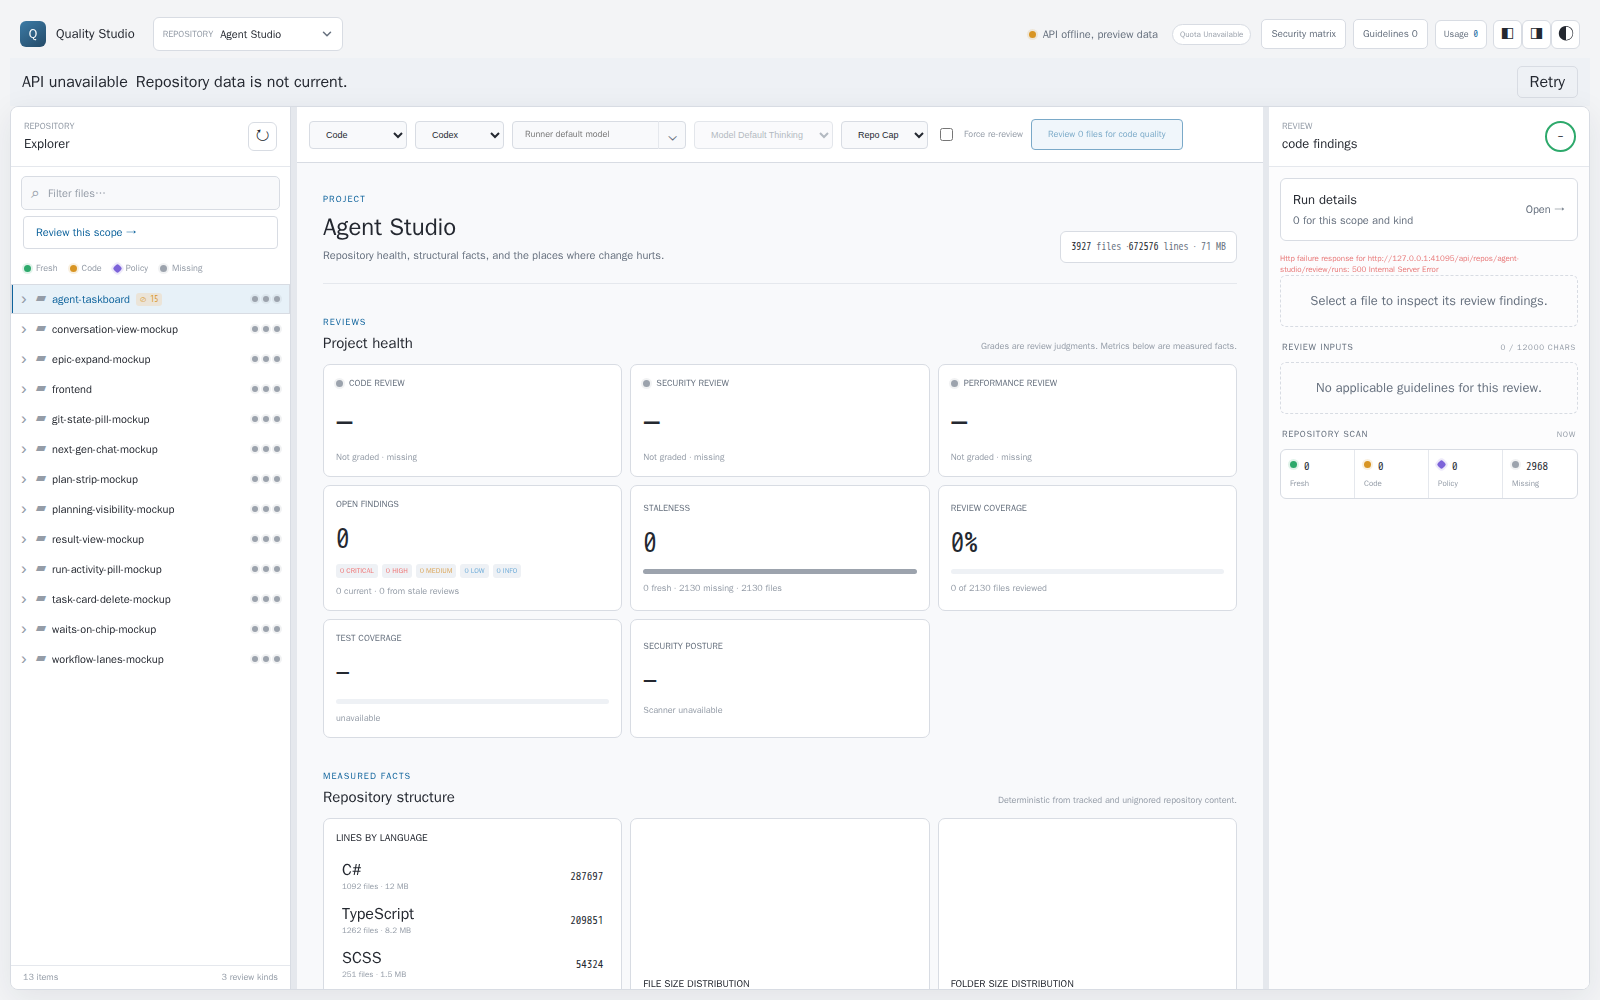
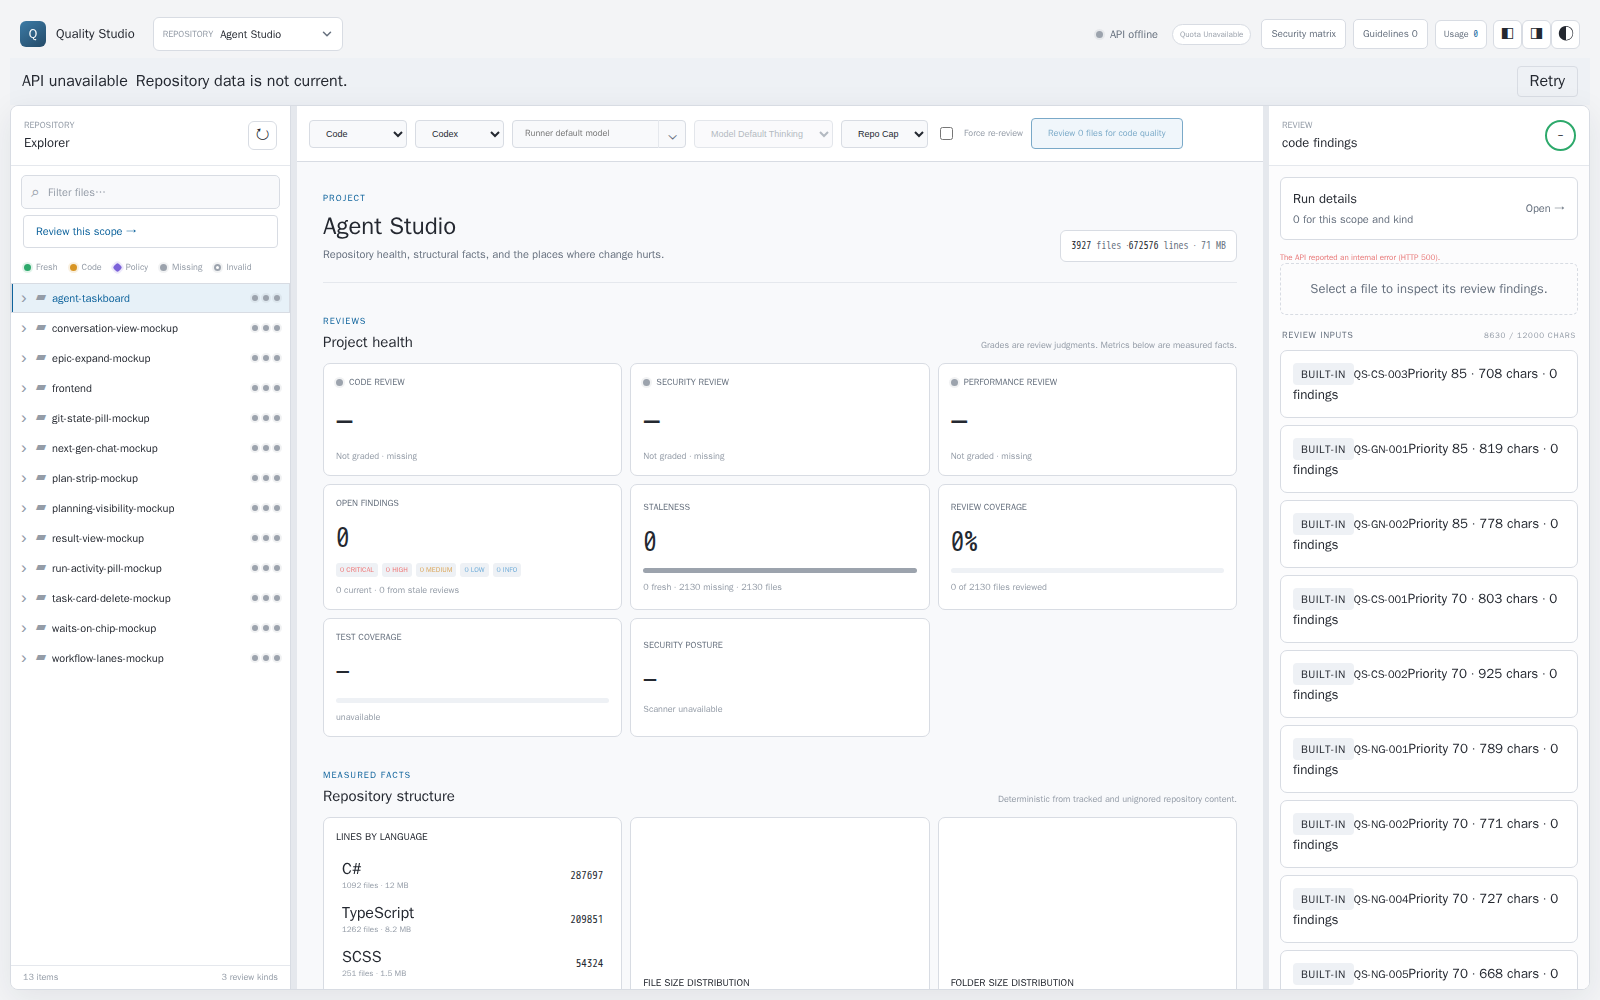
docs(perf): record the QS-82 rebase onto main and its re-measured before/after
The delivery was rebased onto origin/main 6b4e7b3, which had landed the frontend
service split, a bounded dashboard LRU, a Git-fingerprint TTL, and derived
function units below file nodes. The dossier now names every conflict and how it
was resolved, and carries numbers re-measured from the rebased build rather than
the August ones the tree had moved past:

- v1 root 2,868,549 bytes / 79.13 ms median against v2 2,255 bytes / 3.20 ms
- initial production bundle 334.86 kB on main against 305.97 kB here
- the live browser series against the same 3,927-file target
- refreshed switcher and API-down captures from the rebased build

diff --git a/docs/operations/performance/index.html b/docs/operations/performance/index.html
@@ -25,7 +25,7 @@
   <div class="kicker">Quality Studio · performance · living dossier</div>
   <h1>Large-repository transport after QS-82</h1>
   <p class="lede">QS-59 found that a warm project switch still transferred a recursively repeated 29.1 MB tree. QS-82 delivers the next slice cleanly on top of QS-54 and QS-78: one-level tree transport, lazy expansion, snapshot-pinned child pages, complete timing, and production bundle headroom.</p>
-  <div class="meta"><div><b>Status</b><br><span class="pill done">documented</span></div><div><b>Implemented</b><br>12 August 2026</div><div><b>Re-measured</b><br>24 August 2026</div><div><b>Reproduced</b><br>24 August 2026 on <code>b36bfe3</code></div><div><b>Card</b><br><code>QS-82</code></div><div><b>Integration base</b><br><code>origin/main e31089c</code></div><div><b>Target</b><br>3,927 tracked files</div></div>
+  <div class="meta"><div><b>Status</b><br><span class="pill done">documented</span></div><div><b>Implemented</b><br>12 August 2026</div><div><b>Re-measured</b><br>7 September 2026</div><div><b>Reproduced</b><br>7 September 2026 on <code>origin/main 6b4e7b3</code></div><div><b>Card</b><br><code>QS-82</code></div><div><b>Integration base</b><br><code>origin/main 6b4e7b3</code></div><div><b>Target</b><br>3,927 tracked files</div></div>
 </header>
 
 <section class="callout"><b>Outcome.</b> A valid persisted snapshot plus the v2 root made five measured restarts usable in 1,516.87 ms median instead of the QS-59 10,004.99 ms median (84.84% lower; the &lt;2 s target now passes). The root response is 15,391 bytes instead of 29,119,333 bytes (99.95% smaller). Ten same-build project-plus-root samples measured 31.23 ms median / 42.45 ms p95 with v2 against 331.36 / 902.38 ms with v1. Five live Angular switches measured 19.8 / 87.0 ms and first lazy expansion measured 33.1 ms.</section>
@@ -52,7 +52,7 @@
   <tr><td>Snapshot integration</td><td><span class="pill done">built · QS-78/QS-82</span></td><td>QS-78 hierarchy/dashboard restoration is retained. The existing QS-54 prewarmer now fills the bounded one-slot aggregate projection; child pages pin the root snapshot and avoid another Git-state scan.</td></tr>
   <tr><td>Explorer migration</td><td><span class="pill done">built · QS-82</span></td><td>Children load on expansion, pages remain in the per-repository browser snapshot, server search preserves unloaded deep links, and keyboard/virtualized-row behavior remains.</td></tr>
   <tr><td>Honest timing</td><td><span class="pill done">built · QS-82</span></td><td><code>Server-Timing</code> includes snapshot, projection, and JSON serialization. <code>qs.tree.transport</code> records bytes and response completion.</td></tr>
-  <tr><td>Bundle headroom</td><td><span class="pill done">built · QS-82</span></td><td>The editor is deferred through the established Angular component boundary. The final initial production bundle is 438.02 kB versus the 480 kB error ceiling.</td></tr>
+  <tr><td>Bundle headroom</td><td><span class="pill done">built · QS-82</span></td><td>The editor is deferred through the established Angular component boundary. Re-measured on 2026-09-07 after the rebase onto <code>6b4e7b3</code>: 334.86 kB on main versus 305.97 kB here, both against the 480 kB error ceiling.</td></tr>
   <tr><td>Bounded retention</td><td><span class="pill done">built · QS-78</span></td><td>The dashboard cache is bounded per repository/root and invalidated with the shared repository cache state; QS-82 adds only a one-slot derived tree projection.</td></tr>
   <tr><td>Review completion</td><td><span class="pill pending">not built</span></td><td>Server-sent review transitions and phase telemetry remain the next governed review-latency slice. Model and thinking-level routing are unchanged.</td></tr>
 </tbody></table>
@@ -79,8 +79,8 @@
 <div class="grid">
   <figure><img src="results/tree-transport-before.png" alt="Agent Studio before expanding the lazy tree root"><figcaption><b>Before interaction.</b> The app is usable with only the 15,391-byte root page loaded; the explorer footer reads 13 items and the selected solution is still collapsed.</figcaption></figure>
   <figure><img src="results/tree-transport-after.png" alt="Agent Studio after QS-82 with a lazily expanded project"><figcaption><b>After interaction.</b> The same live app shows the selected solution's ten children — 23 items — after a 33.1 ms snapshot-pinned lazy expansion.</figcaption></figure>
-  <figure><img src="results/agent-studio-switcher-full-path.png" alt="Repository switcher showing wrapped full root paths"><figcaption><b>Switcher.</b> Root paths wrap instead of truncating, and the three actions share one token-spaced row.</figcaption></figure>
-  <figure><img src="results/agent-studio-api-down-notice.png" alt="API unavailable notice with a retry action"><figcaption><b>API down.</b> Losing the API raises an explicit notice instead of silently presenting stale data as live; Retry recovered the session in the same run.</figcaption></figure>
+  <figure><img src="results/agent-studio-switcher-full-path.png" alt="Repository switcher showing wrapped full root paths"><figcaption><b>Switcher.</b> Root paths wrap instead of truncating. Re-captured 7 September 2026 after the rebase: the three repository actions share one token-spaced row and main's API-access action spans the row below them.</figcaption></figure>
+  <figure><img src="results/agent-studio-api-down-notice.png" alt="API unavailable notice with a retry action"><figcaption><b>API down.</b> Losing the API raises an explicit notice instead of silently presenting stale data as live; Retry recovered the session in the same run. Re-captured 7 September 2026 from the rebased build.</figcaption></figure>
 </div>
 
 <h2>6. Verification and evidence</h2>
@@ -138,4 +138,41 @@
 <li>Tree-v2 live contract harness: 13/13 passed; this checkout measured 1,653,398-byte v1 versus 5,331-byte v2 roots, a 99.68% reduction.</li>
 </ul>
 <p class="muted">The 24 August before/after series remains the controlled QS-59 comparison and is not replaced by this final integration gate. The 1 September contract run is a functional current-tree receipt; its smaller repository is not used to revise the large-repository performance claims.</p>
+
+<h2>9. Rebase onto current main and re-gate (7 September 2026)</h2>
+<p>The delivery tip <code>2390474</code> was rebased onto <code>origin/main 6b4e7b3</code>. Main had advanced substantially in the interim — the frontend API service was split along its domains, the project-dashboard cache became a bounded LRU, the hierarchy cache gained a one-second Git-fingerprint TTL, and the .NET hierarchy now derives function units below file nodes. Eleven files conflicted. Every conflict was resolved by keeping main's newer structure and re-expressing the QS-82 change on top of it; no QS-82 feature was dropped and no feature was reworked.</p>
+<table><thead><tr><th>Conflict</th><th>Resolution</th></tr></thead><tbody>
+  <tr><td><code>quality-api.ts</code> (service split)</td><td>The lazy transport was ported onto main's facade. The root now loads over <code>/api/tree/v2</code> with main's conditional <code>If-None-Match</code> revalidation on the first page, falling back to the recursive route on a 404. Path-scoped loads keep the recursive route.</td></tr>
+  <tr><td><code>app.ts</code> (<code>nodeAt</code>/<code>allNodes</code>)</td><td>Main's cached path lookup is kept; <code>nodesByPath</code> now also covers server search hits, which is what QS-82 needed the extra flattening for.</td></tr>
+  <tr><td><code>explorer.ts</code> (debounced filter)</td><td>Main's debounce is kept and now drives the bounded server-side search, because a lazy tree cannot answer a filter from the loaded levels alone.</td></tr>
+  <tr><td><code>app.html</code> / <code>app.css</code></td><td>QS-82's three-column repository menu is kept together with main's API-access action, which spans the row. <code>.secondary-button</code>, which the QS-82 markup referenced but nothing defined, is now a token-based shared class in <code>styles.css</code>.</td></tr>
+  <tr><td><code>ProjectDashboard.cs</code></td><td>Main's bounded LRU replaces QS-82's one-slot-per-repository cache; QS-82's <code>Seed</code> is re-expressed against it so the prewarmer still avoids a rebuild.</td></tr>
+  <tr><td><code>RepositoryHierarchyCache.cs</code></td><td>QS-82's public <code>MeasureState</code> now reads main's TTL-cached Git fingerprint instead of running Git again, and the fingerprint carries HEAD for the diagnostic field.</td></tr>
+  <tr><td><code>Program.cs</code></td><td>The sensors endpoint keeps QS-82's per-repository availability cache; the surrounding QS-86 registrations were untouched.</td></tr>
+</tbody></table>
+<p>Three test assertions were corrected because main changed the ground truth underneath them, not because behaviour regressed: the tree-v2 search test now asserts that a file states <code>hasChildren</code>/<code>childCount</code> without shipping its (newly derived) function children; the sensor-availability test constructs its hierarchy cache with a zero fingerprint TTL so it measures invalidation rather than main's deliberate one-second reuse window; and the explorer filter tests now flush the server search. One genuine defect surfaced and was fixed: with a server-side filter, <code>Escape</code> no longer cleared a filter that had matched nothing, because the key handler returned early on an empty row set.</p>
+<ul>
+<li>Release solution build: zero warnings, zero errors.</li>
+<li><code>dotnet format --verify-no-changes</code>: clean (one import-ordering fix in <code>TreeTransport.cs</code>).</li>
+<li>.NET tests: 150 API + 397 core passed, 2 skipped, zero failures — repeated three times consecutively. A single first-run failure of the 150 ms 5,000-file dashboard budget did not recur in any of the three repeats and is the known host-timing flake, not a regression in this diff.</li>
+<li>Angular tests: 144/144 passed in Chrome Headless 153.</li>
+<li><code>npm run lint</code>: clean. Production <code>ng build</code>: clean apart from the pre-existing prismjs CommonJS warnings.</li>
+<li>Tree-v2 live contract harness: 13/13 passed against this repository — v1 root 2,868,549 bytes versus v2 root 2,256 bytes, 99.92% smaller.</li>
+</ul>
+<table><thead><tr><th>Metric</th><th><code>origin/main 6b4e7b3</code></th><th>Rebased QS-82</th><th>Change</th></tr></thead><tbody>
+  <tr><td>Root payload (this repository)</td><td>2,868,549 bytes</td><td>2,255 bytes</td><td class="good">-99.92%</td></tr>
+  <tr><td>Root request, 10 warm samples</td><td>79.13 ms median / 93.85 ms p95</td><td>3.20 ms / 3.55 ms</td><td class="good">-95.96% median</td></tr>
+  <tr><td>Cached child page (one level of 5)</td><td>n/a — descendants were eager</td><td>4.73 ms</td><td class="good">pinned to the root snapshot</td></tr>
+  <tr><td>Repeat conditional root request</td><td>—</td><td>304 in 9.95 ms</td><td class="good">no payload</td></tr>
+  <tr><td>Initial production bundle</td><td>334.86 kB raw / 92.49 kB transfer</td><td>305.97 kB / 86.04 kB</td><td class="good">-28.89 kB (-8.63%)</td></tr>
+</tbody></table>
+<p>The live browser harness was re-run against the same 3,927-file Agent Studio target (<code>9af1a848e3be</code>) from the rebased build in Chromium 153.0.8010.12; the raw series is <code>results/lazy-tree-browser.json</code>.</p>
+<table><thead><tr><th>Browser measurement</th><th>Budget</th><th>7 September 2026 result</th></tr></thead><tbody>
+  <tr><td>Large-repository switch to usable, 5 samples</td><td>&lt; 500 ms</td><td class="good">40.7 ms median / 47.0 ms p95 (34.9–47.0 ms)</td></tr>
+  <tr><td>First lazy expansion, 10 children fetched</td><td>&lt; 100 ms</td><td class="good">23.3 ms</td></tr>
+  <tr><td>Cached expand/collapse, 6 samples</td><td>&lt; 50 ms</td><td class="good">2.0 ms median / 11.4 ms p95</td></tr>
+  <tr><td>Repository transitions visible, 5 samples</td><td>&lt; 100 ms</td><td class="good">11.4–17.3 ms, all inside budget</td></tr>
+</tbody></table>
+<p>The switcher run from the same build restored the last repository across a reload, rendered both full root paths, and raised the explicit <em>API unavailable</em> notice whose Retry recovered the session — the two screenshots in section 5 are that run's captures.</p>
+<p class="muted">This repository is much smaller than the 3,927-file Agent Studio target of the controlled 24 August series, so only the ratios carry over; the absolute large-repository numbers in section 4 are not revised by this run. Backend orchestration owns pushes and merges; this section records that the rebased tree is gate-clean, not that it has been merged.</p>
 </main></body></html>

diff --git a/frontend/PERF.md b/frontend/PERF.md
@@ -72,12 +72,15 @@ was usable in 111.7 ms and a warm one in 12.9 ms, the last selected repository
 was restored from `localStorage` across a reload, and stopping the API raised an
 explicit "API unavailable" notice whose Retry recovered the session.
 
-The editor surface is now a deferred standard component chunk. On the QS-82
-branch as first measured on 2026-08-24 that moved the production initial bundle
-from 478.30 kB to 438.02 kB (40.28 kB / 8.42%). Those absolute figures predate
-the separate initial-bundle work that landed on main afterwards, so the current
-number is the one recorded under the bundle budget below; the editor chunk
-deferral is additive to it and the 480 kB error ceiling is unchanged.
+The editor surface is now a deferred standard component chunk. As first measured
+on 2026-08-24 that moved the production initial bundle from 478.30 kB to
+438.02 kB (40.28 kB / 8.42%). Those absolute figures predate the separate
+initial-bundle work that landed on main afterwards, so both arms were measured
+again on 2026-09-07 after rebasing onto main: `ng build` reports 334.86 kB raw /
+92.49 kB transfer on main and 305.97 kB raw / 86.04 kB transfer with the editor
+deferred — 28.89 kB (8.63%) off the raw initial bundle and 6.45 kB (6.97%) off
+the transfer size, with the editor now a 35.12 kB lazy chunk. The 480 kB error
+ceiling is unchanged.
 
 ## Repeat the automated measurement
 
@@ -104,5 +107,5 @@ The app also logs stable JSON events named `qs.tree.toggle`, `qs.file.first-cont
 - Finding ranges are indexed once per loaded review/aspect; only markers belonging to the visible 80-line window enter the DOM.
 - Aspect switching selects an already-loaded `metaDocuments` entry and does not fetch file content again.
 - The first-content path displays plain escaped text. Supported files up to 200 KB are tokenized only after that paint in a cancellable single-concurrency worker and delivered in 200-line chunks; whole-file main-thread highlighting is prohibited.
-- Production bundle budgets are enforced at 350 KB warning / 480 KB error initially and 12/16 KB per component stylesheet. The initial bundle is 334.57 kB raw / 92.39 kB transfer.
-- Everything that is not part of opening a repository is a deferred chunk and is not paid on the first-content path: the review panel and its run history, the review launcher, the project dashboard, the attack matrix, the container overview, the repository, guideline, import, usage, and API-access dialogs, the syntax tokenizer, and the offline preview fixtures. The explorer is deferred on immediate, so its chunk is fetched at bootstrap instead of parsed before the first paint.
+- Production bundle budgets are enforced at 350 KB warning / 480 KB error initially and 12/16 KB per component stylesheet. The initial bundle is 305.97 kB raw / 86.04 kB transfer.
+- Everything that is not part of opening a repository is a deferred chunk and is not paid on the first-content path: the review panel and its run history, the review launcher, the project dashboard, the attack matrix, the container overview, the repository, guideline, import, usage, and API-access dialogs, the editor, the syntax tokenizer, and the offline preview fixtures. The explorer is deferred on immediate, so its chunk is fetched at bootstrap instead of parsed before the first paint.

diff --git a/PERF.md b/PERF.md
@@ -119,6 +119,22 @@ The absolute v1 numbers are host-sensitive — the 2026-08-12 run on a slower ho
 measured 825.30 ms median for the same v1 root request. The reduction
 percentages, measured within a single process per run, are the portable result.
 
+Re-measured on 2026-09-07 after rebasing onto main, against this repository
+served by a warmed `QualityStudio.Api` on the Linux review host. The repository
+is smaller than the Agent Studio one above, so only the ratio carries over:
+
+| Measurement | Recursive v1 | Lazy v2 | Change |
+| --- | ---: | ---: | ---: |
+| Root payload | 2,868,549 bytes | 2,255 bytes | -99.92% |
+| Root request, 10 warm samples | 79.13 ms median / 93.85 ms p95 | 3.20 ms / 3.55 ms | -95.96% median |
+| Cached child page, one level of 5 | n/a — descendants were eager | 4.73 ms | pinned to the root snapshot ETag |
+| Repeat conditional root request | — | 9.95 ms | 304 Not Modified |
+
+The same run confirms the response header
+`Server-Timing: tree-snapshot;dur=0.08, tree-projection;dur=3.72, tree-serialization;dur=3.16`
+and that `/api/tree/v2/search` resolves a file that no expanded level had
+loaded.
+
 Tree transport now emits `Server-Timing` phases for snapshot lookup, aggregate
 projection, and JSON serialization. The structured `qs.tree.transport` event
 adds response bytes and total response-completion time. A one-slot derived
